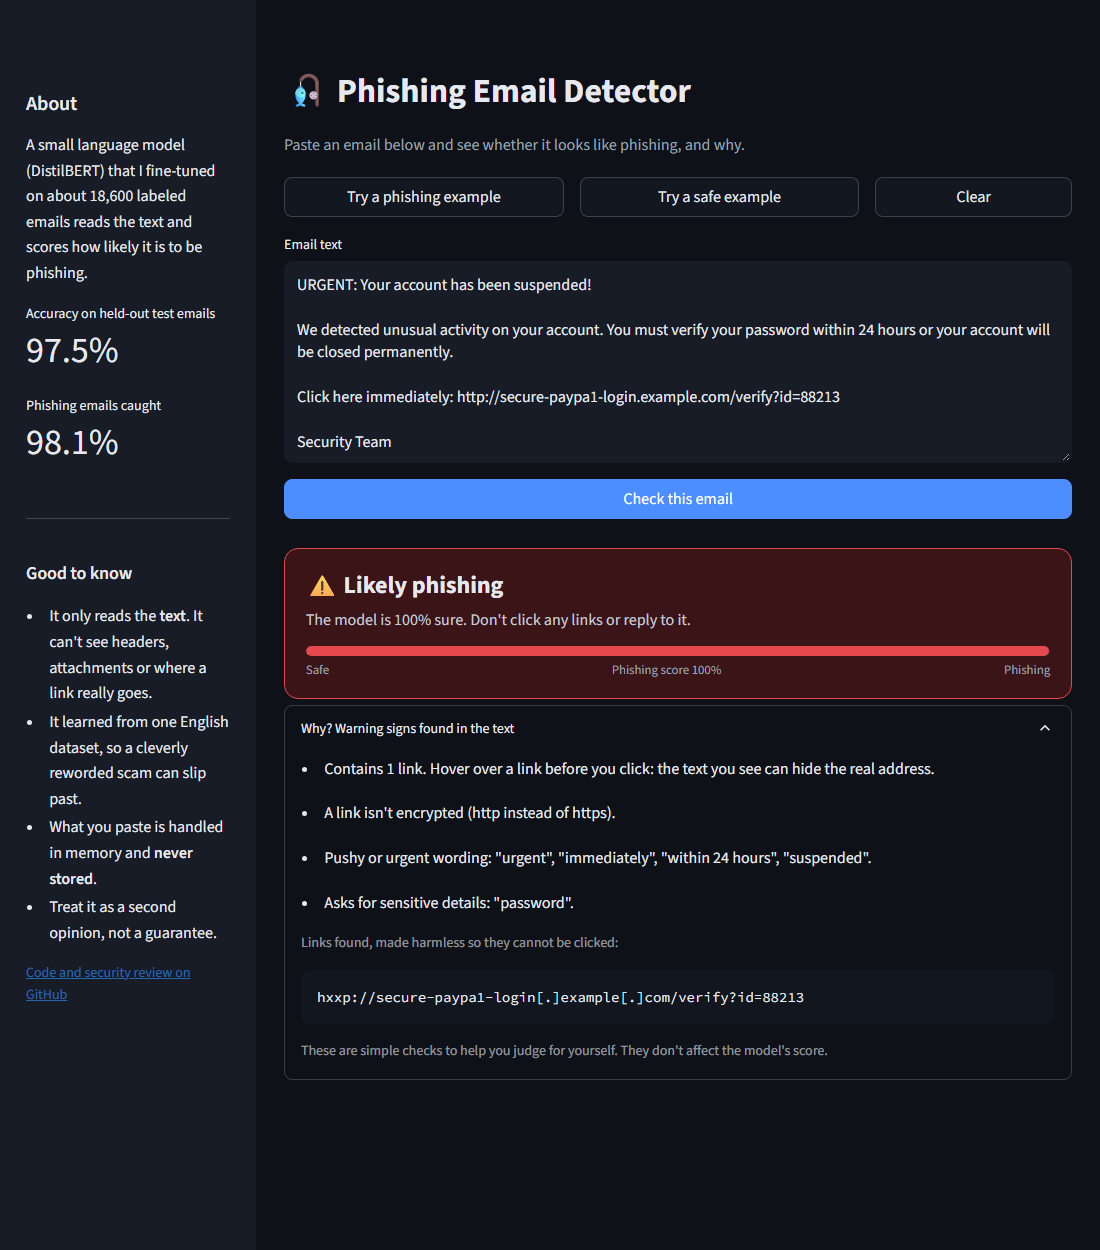
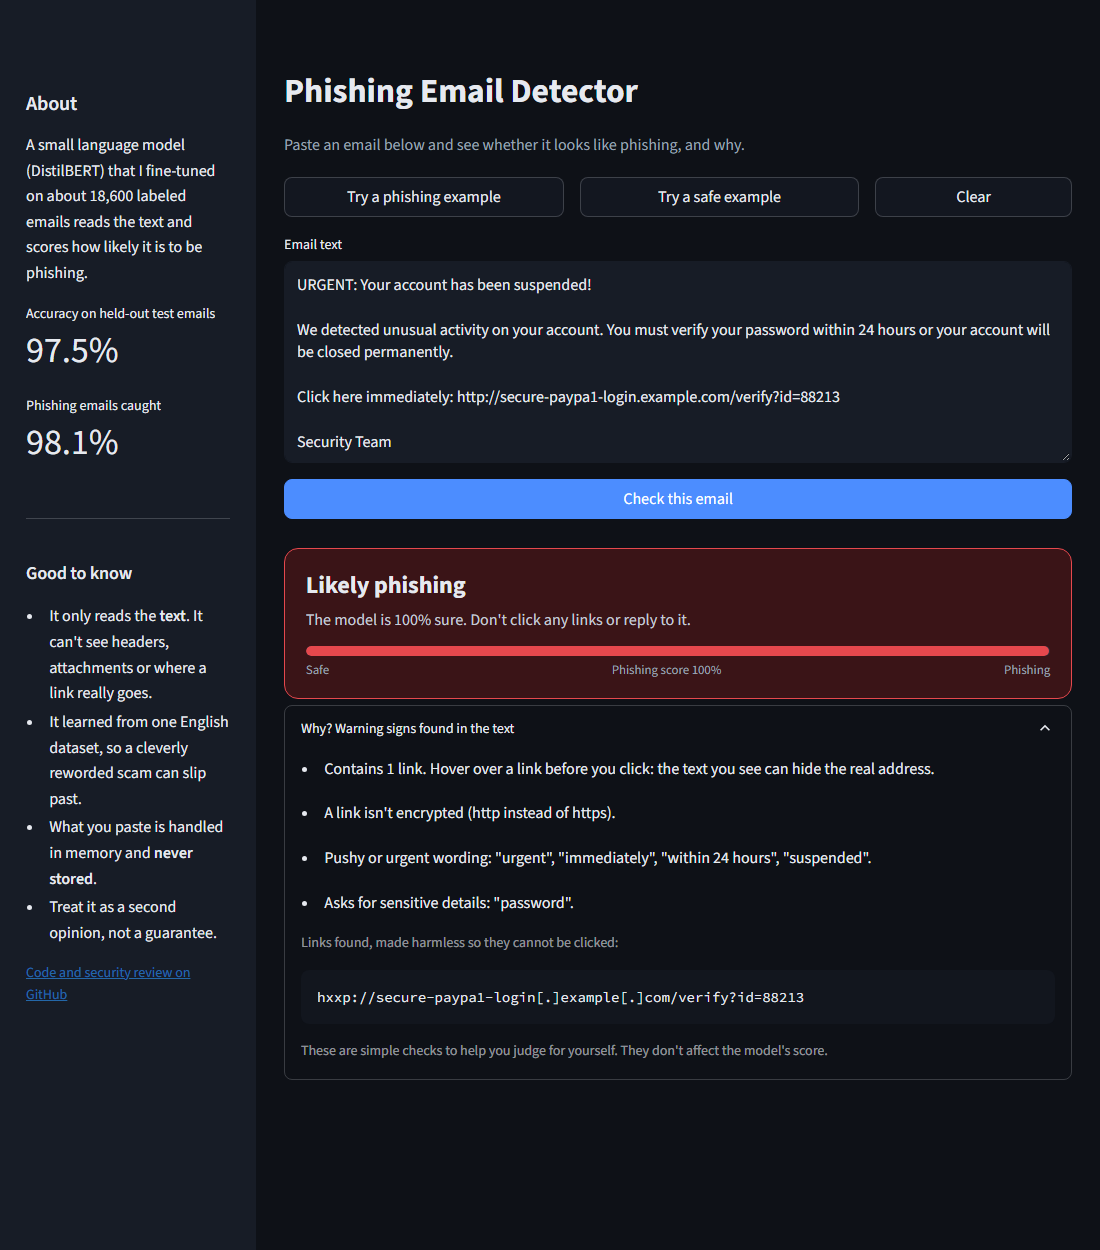
Remove emojis

Changed region(s): [[0.2473, 0.0624, 0.6182, 0.0936], [0.2782, 0.4368, 0.4636, 0.4992]]

diff --git a/app.py b/app.py
@@ -8,7 +8,7 @@ from phishing_detector.examples import EXAMPLES
 from phishing_detector.model_store import ensure_model
 from phishing_detector.signals import defanged_links, find_signals
 
-st.set_page_config(page_title="Phishing Email Detector", page_icon="🎣", layout="centered")
+st.set_page_config(page_title="Phishing Email Detector", layout="centered")
 
 # The HTML below only ever contains fixed text and numbers we format ourselves, never the pasted email.
 st.markdown(
@@ -65,7 +65,7 @@ with st.sidebar:
 
 # ----- header --------------------------------------------------------------------------------------------
 st.markdown(
-    '<div class="hero"><h1>🎣 Phishing Email Detector</h1>'
+    '<div class="hero"><h1>Phishing Email Detector</h1>'
     "<p>Paste an email below and see whether it looks like phishing, and why.</p></div>",
     unsafe_allow_html=True,
 )
@@ -113,7 +113,7 @@ if st.session_state.run:
                else f"The model is {confidence:.0%} sure. Still be careful with links and attachments.")
         color = "#e5484d" if bad else "#30a46c"
         st.markdown(
-            f'<div class="verdict {"bad" if bad else "good"}"><div class="t">{"⚠" if bad else "✅"} {title}</div>'
+            f'<div class="verdict {"bad" if bad else "good"}"><div class="t">{title}</div>'
             f'<div class="s">{sub}</div>'
             f'<div class="bar"><div style="width:{score * 100:.1f}%;background:{color}"></div></div>'
             f'<div class="barlabel"><span>Safe</span><span>Phishing score {score:.0%}</span><span>Phishing</span></div>'

diff --git a/README.md b/README.md
@@ -1,9 +1,9 @@
-# 🎣 AI Phishing Detector
+# AI Phishing Detector
 
 Paste in an email and this app tells you whether it looks like phishing, and shows you the warning signs it spotted along the way. Under the hood it's a DistilBERT model I fine-tuned on about 18,600 labeled emails, wrapped in a small Streamlit web app.
 
 [![Open in GitHub Codespaces](https://github.com/codespaces/badge.svg)](https://codespaces.new/aurveus/AI-phishing-detector)
-[![Live demo on Hugging Face](https://img.shields.io/badge/%F0%9F%A4%97%20Live%20demo-Hugging%20Face-yellow)](https://huggingface.co/spaces/aurveus/Ai-Phishing-Detector)
+[![Live demo on Hugging Face](https://img.shields.io/badge/Live%20demo-Hugging%20Face-yellow)](https://huggingface.co/spaces/aurveus/Ai-Phishing-Detector)
 
 | A phishing email | A normal email |
 |---|---|
